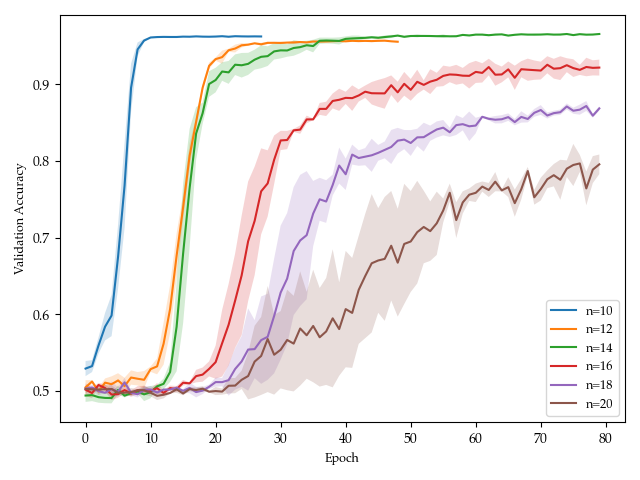
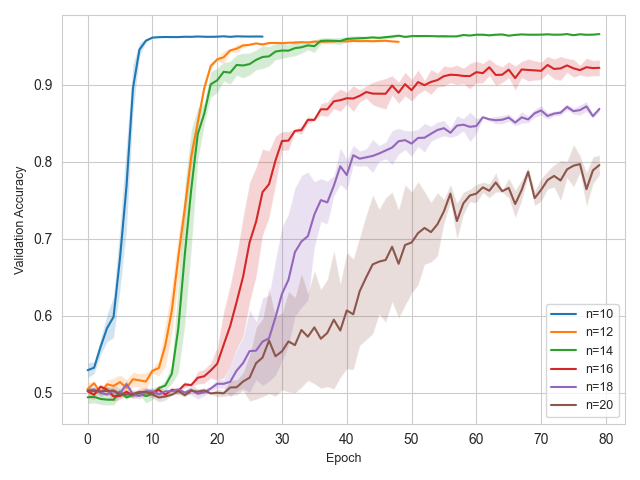
tidied up code

diff --git a/README.md b/README.md
@@ -3,7 +3,6 @@
 # Coursework MML 
 
 
-
 ## File Structure
 
 | File/Folders                | Description                                                                |
@@ -13,13 +12,13 @@
 | `hiddenlabels\`             | Contains produced labels for each n on hidden datasets |
 | `datasets\`                 | Contains provided X, y datasets for each Kryptonite-n |
 | `experiment_notebook.ipynb` | Functions to evaluate model performance (e.g. accuracy, confusion matrix). |
-| `model_prediction.ipynb`    | Script to use trained model parameters to predict on hidden dataset, saves predictions to hiddenlabels folder. |
+| `hidden_prediction.ipynb`    | Script to use trained model parameters to predict on hidden dataset, saves predictions to hiddenlabels folder. |
 | `mln_train.ipynb`           | Main script to train our MLN model, results and weights saved for hyperparameters and best model in models folder.      |
 
 
-## Notes
+## File Setup
 
-The key notebook to run all of our experiments is *experiment_notebook.ipynb* in this notebook you will find the following sections:
+The key notebook to run all of our experiments is *experiment_notebook.ipynb*, in this notebook you will find the following sections:
 
 ### Dataset Exploration
 
@@ -31,4 +30,4 @@ Code to run the kNN model on the Kryptonite dataset, finds optimal k and present
 
 ### MLN
 
-Code to evaluate the results from the trained MLN models.
+Code to evaluate the results from the trained MLN models. The actual training and hyperparameter search is set up in *mln_training.ipynb*, the results over all hyperparameters and the weights from the best performing model on the vaidation set is saved in the *models/* folder. These results are loaded into the experiment_notebook.ipynb to run the experiments. These results are also loaded by *hidden_prediction.ipynb* to produce predictions for each n on the hidden labels.